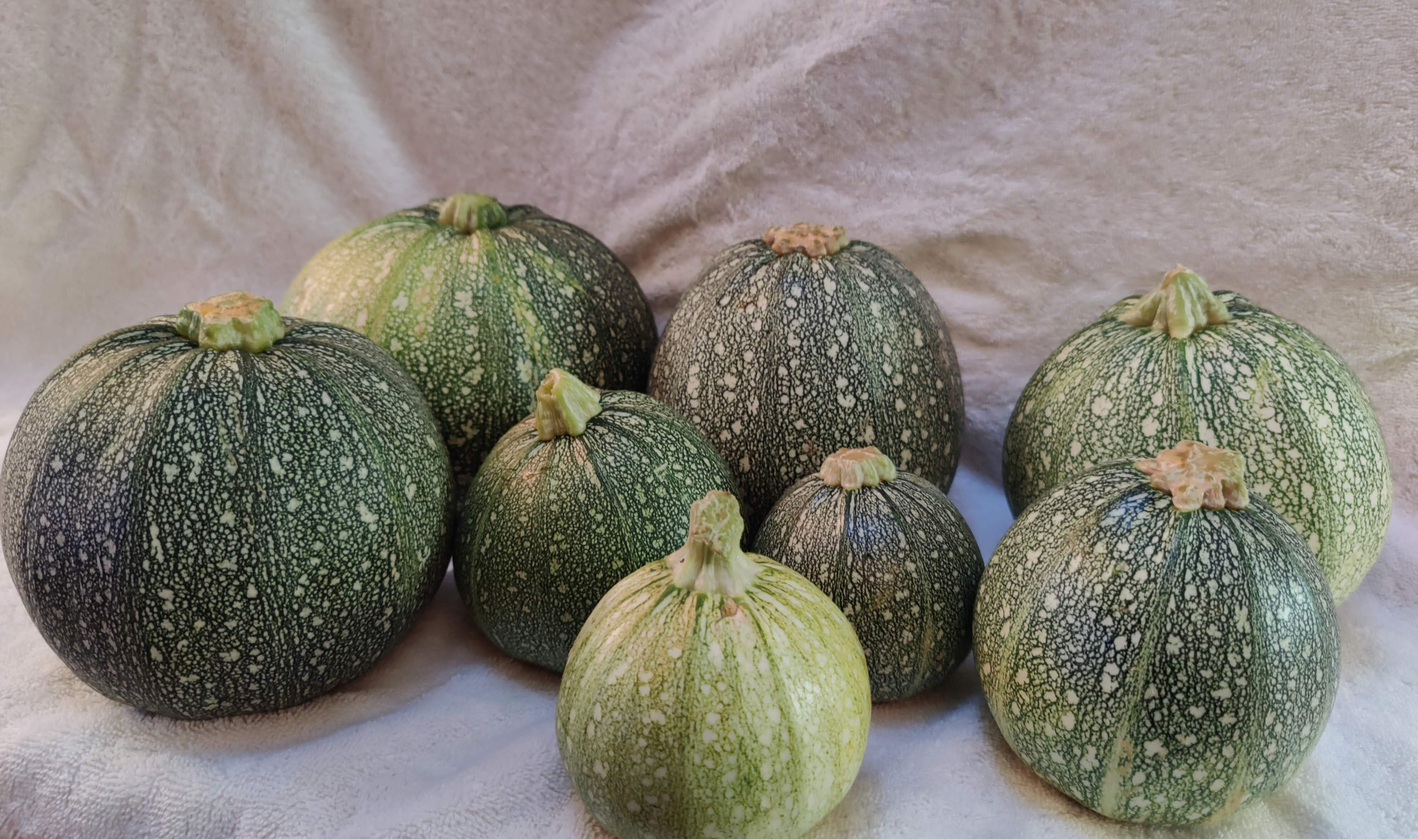
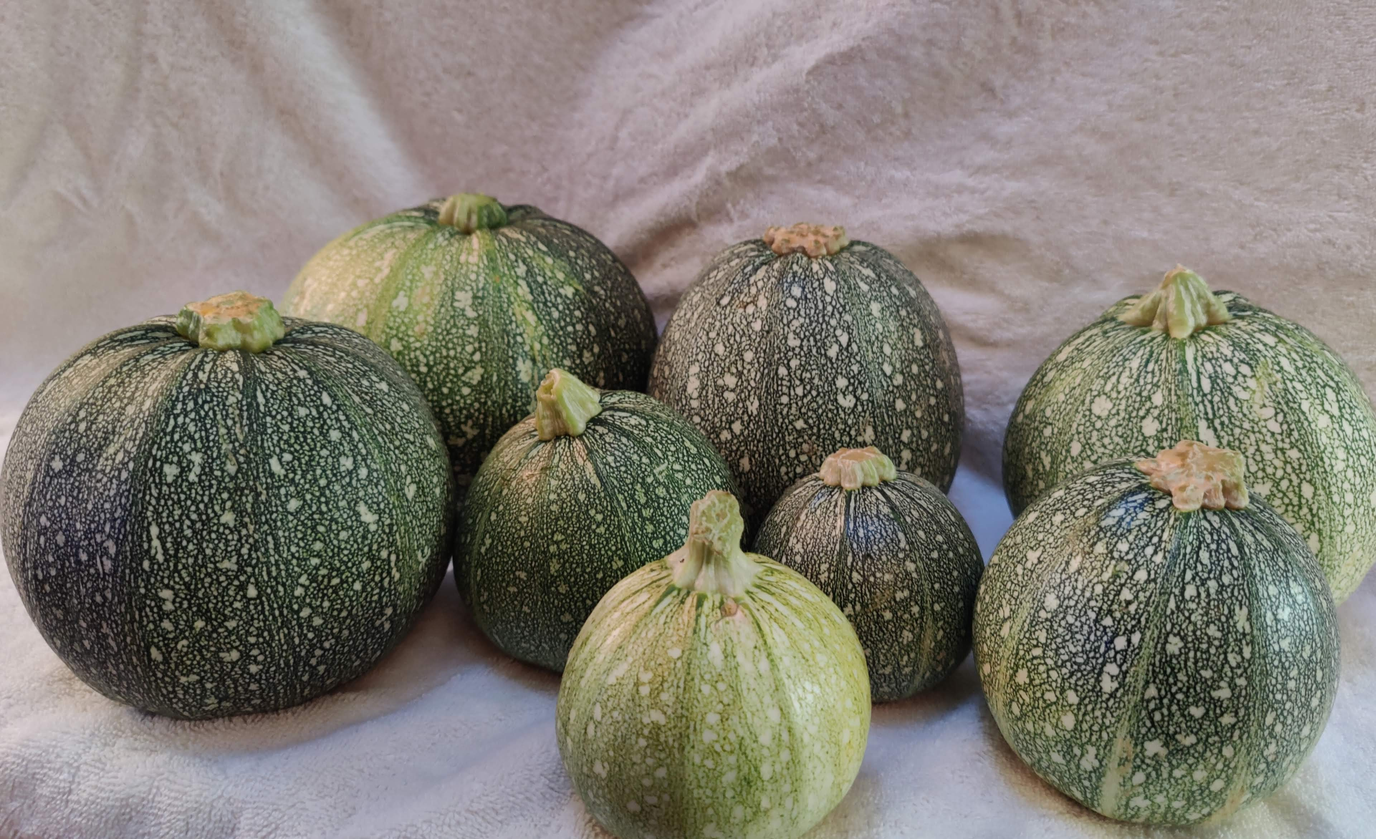
Check

diff --git a/A&C.html b/A&C.html
@@ -78,10 +78,33 @@ We take pride in working with nature, honoring its wisdom, tending our garden wi
 						<div class="box alt">
 							<div class="row gtr-uniform">
 								<section class="col-4 col-6-medium col-12-xsmall">
+									<span class="image fit main"><img src="images/CentipedeMomma.jpg" style="height:60%" alt="" /></span>
+
+									<h3>Living compost</h3>
+									<p>In early spring 2026 de found this centipede living under our compost, taking care of her babies.
+</p>
+								</section>
+								<section class="col-4 col-6-medium col-12-xsmall">
+<img src="images/FrenchZucchiniFamily.jpg" style="width:110%" alt="">
+									
+
+								<p> </p>	<h3>Great year</h3>
+									<p>2026 was a great year for our french zucchinis. It is late fall and we are still harvesting!
+</p>
+								</section>
+
+			<section class="col-4 col-6-medium col-12-xsmall">
+									<span class="image fit main"><img src="images/A&CChickenMomma.jpg" alt="" /></span>
+
+									<h3>The new additions</h3>
+									<p>Fudge insisted in raising new babies. These cutties were born early Spring 2026.
+</p> </section>
+
+								<section class="col-4 col-6-medium col-12-xsmall">
 									<span class="image fit main"><img src="images/Sprouts.jpg" alt="" /></span>
 
 									<h3>Happy chickens</h3>
-									<p>We currently have one rooster, Gigio, and 10 hens: Blanca, Nieve, Bollo, Canelita, Simple, Pujo, Nutri, Negra, Tomasa, and Fudge. Here they are enjoying wheat sprouts next to the compost.
+									<p>We currently have two roosters, Pinto and Niñe, and 8 hens: Blanca, Nieve, Canelita, Simple, Pujo, Nutri, Negra, and Fudge. Here they are enjoying wheat sprouts next to the compost.
 </p>
 								</section>
 								<section class="col-4 col-6-medium col-12-xsmall">
@@ -100,7 +123,7 @@ We take pride in working with nature, honoring its wisdom, tending our garden wi
 									<p>Tricotri is our barn cat who helps us with the pest control around A&C.</p>
 								</section>
 								<section class="col-4 col-6-medium col-12-xsmall">
-									<img src="images/Starts.jpg" style="width:60%" alt="">
+									<img src="images/Starts.jpg" style="width:95%" alt="">
 									<h3>It all starts small</h3>
 									<p>We grow most of our vegetables from seed in a modest greenhouse, giving us a head start each early spring.
 </p>
@@ -143,7 +166,7 @@ Dominga was our first female rabbit. Blanca is one of our most photogenic chicke
 				<footer id="footer">
 					
 					<p><a href=mailto:"cctorresduarte@ucdavis.edu">Contact me</a>
-</p><p>Last update: August 2025</p>
+</p><p>Last update: November 2026</p>
 
 				</footer>
 

diff --git a/Gallery.html b/Gallery.html
@@ -108,7 +108,7 @@
 		<p>Tidepooling in Fort Bragg, CA.</p>
 	</td>
 
-	<td><img src="images/Gal_RVD.jpg" style="width:90%" alt="">
+	<td><img src="images/Gal_Art.gif" style="width:90%" alt="">
 		<p>Celebrating my first publication in 2009 with Dr. Rafael Vazquez lab</p>
 	</td>
 
